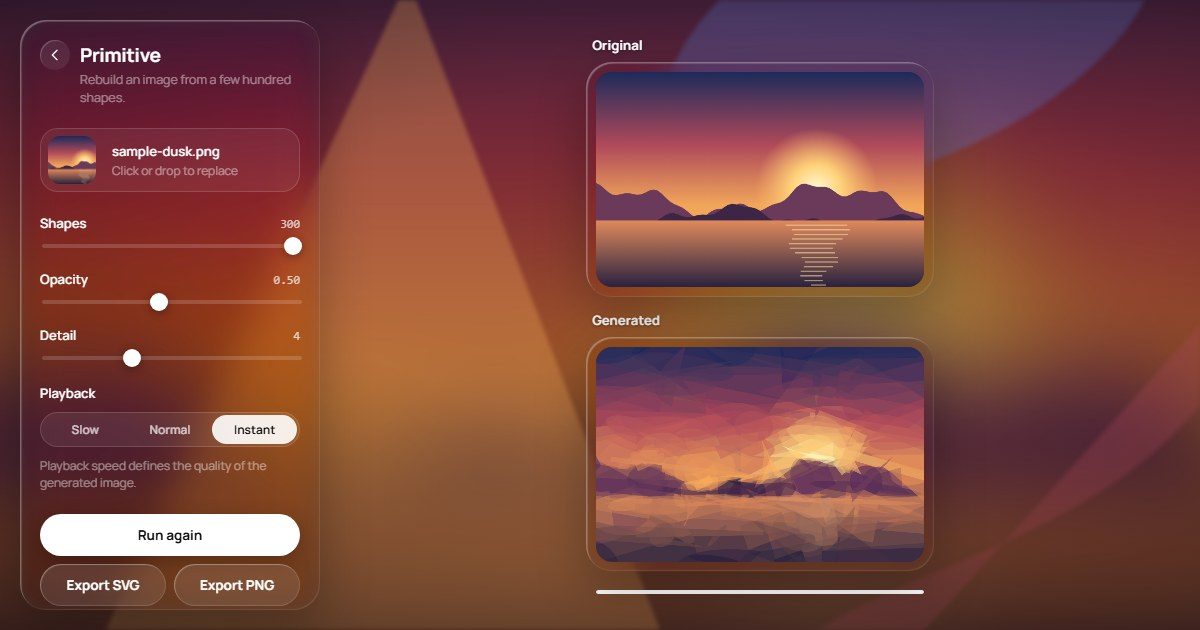
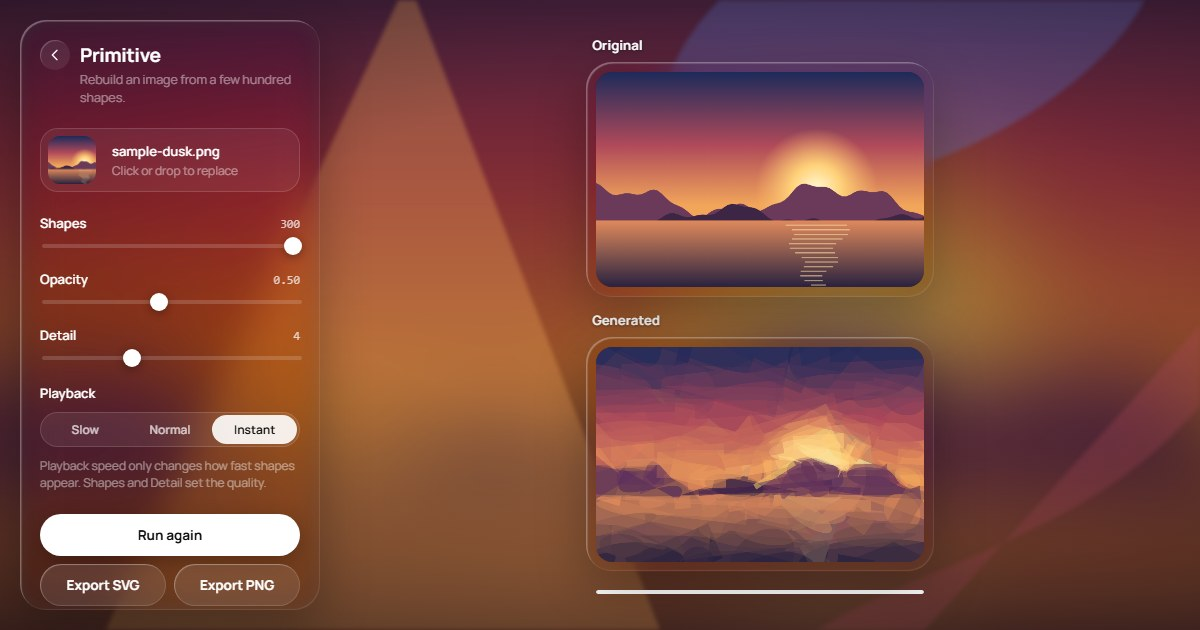
Primitive: make the Playback note accurate
Playback speed only changes how fast the shapes are shown; the shapes
are computed the same either way, so it can't affect quality. The note
now points at Shapes and Detail, which do. Share image re-captured to
match.

diff --git a/primitive-art.html b/primitive-art.html
@@ -116,7 +116,7 @@
         <button type="button" data-v="normal" class="on">Normal</button>
         <button type="button" data-v="instant">Instant</button>
       </div>
-      <p class="note">Playback speed defines the quality of the generated image.</p>
+      <p class="note">Playback speed only changes how fast shapes appear. Shapes and Detail set the quality.</p>
     </div>
 
     <div class="actions">
